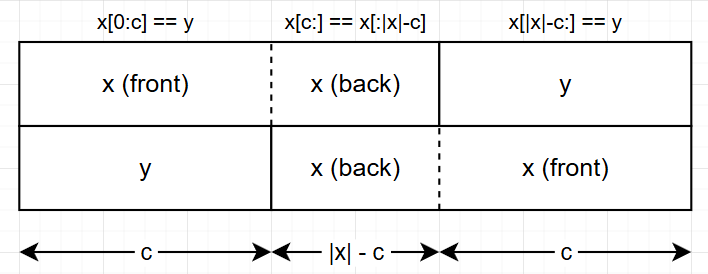
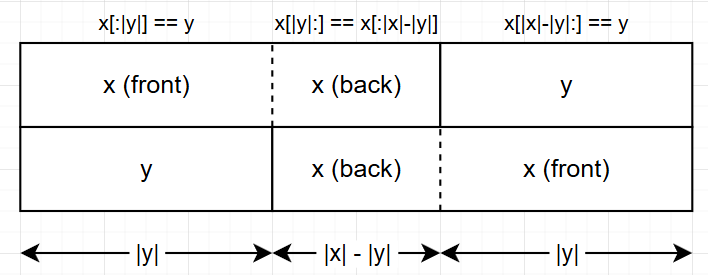
Improved ALDS-6

diff --git a/docs/posts/alds/alds6.md b/docs/posts/alds/alds6.md
@@ -49,10 +49,9 @@ s = ["abc", "abcd", "abcabc"]
 
 ![base_case](/assets/posts/alds/concat_problem/base_case.png)
 
-!!! caption
-
-    $x_0 = y_0, x_1 = y_1, \cdots$ 여야 하므로,
-    $x$와 $y$의 길이가 같을 때 $x+y = y+x$일 조건은 $x = y$일 조건과 동치입니다.
+이 그림에서 $x_i$와 $y_i$는 각각 $x$와 $y$의 $i$번째 인덱스에 있는 글자입니다. (0-based)
+$x_0 = y_0$ , $x_1 = y_1$ , $\cdots$ 여야 하므로,
+$x$와 $y$의 길이가 같을 때 $x+y = y+x$일 조건은 $x = y$일 조건과 동치입니다.
 
 ---
 
@@ -62,10 +61,12 @@ s = ["abc", "abcd", "abcabc"]
 
 ![length_multiple_case](/assets/posts/alds/concat_problem/length_multiple_case.png)
 
-이 그림에서 $x_0, x_1, \ldots x_{n-1}$은 단일 글자가 아니고, $x$의 길이를 $y$의 길이의 $n$배라고 했을 때, $x$를 $y$의 길이 단위로 총 $n$개의 조각을 만든 것을 의미합니다.
-$x+y = y+x$이기 때문에 $x_{0} = x_{n-1} = y$가 되고, 이를 통해 $x_1 = x_0$, $x_2 = x_1$ 등을 유도할 수 있습니다.
+이 그림에서 $x_0, x_1, \ldots x_{n-1}$은 단일 글자가 아니고, $x$의 길이를 $y$의 길이의 $n$배라고 했을 때, $x$를 $y$의 길이 단위로 총 $n$개의 substring 조각을 만든 것을 의미합니다.
+$x+y = y+x$이기 때문에 $x_{0} = x_{n-1} = y$가 되고,
+이를 통해 $x_1 = x_0$ , $x_2 = x_1$ 등을 유도할 수 있습니다.
 
-직관적으로 말해, $x$의 길이가 $y$의 길이의 정수배일때, $x+y = y+x$가 되기 위해서는 $x = y + y + \cdots + y$ ($n$개의 $y$의 합)이 되어야 합니다.
+직관적으로 말해, $x$의 길이가 $y$의 길이의 정수배일때,
+$x+y = y+x$가 되기 위해서는 $x = y + y + \cdots + y$ ($n$개의 $y$의 합)이 되어야 합니다.
 
 ---
 
@@ -76,17 +77,29 @@ $x+y = y+x$이기 때문에 $x_{0} = x_{n-1} = y$가 되고, 이를 통해 $x_1 
 
 ![general_case_expr](/assets/posts/alds/concat_problem/general_case_expr.png)
 
-여기서 알 수 있는 사실은, $x_{0\ldots |y|} = x_{|x| - |y| \ldots |x|}$ 이면서 동시에 $x_{c \ldots |x|} = x_{0 \ldots |x| - |y|}$라는 것입니다. (End exclusive입니다.)
+여기서 알 수 있는 사실은, $x_{0\ldots |y|} = x_{|x| - |y| \ldots |x|}$ 이면서 동시에 $x_{|y| \ldots |x|} = x_{0 \ldots |x| - |y|}$라는 것입니다. (End exclusive입니다.)
 이제 다음 그림을 봅시다.
 
 ![general_case_digged](/assets/posts/alds/concat_problem/general_case_digged.png)
 
 이게 뭘 의미하냐면, $x + y = y + x$ 일 경우, $x_{front} + x_{back} = x_{back} + x_{front}$가 성립한다는 것입니다.
-($y = x_{front}$, $x = x_{front} + x_{back}$)
+($y = x_{front}$ , $x = x_{front} + x_{back}$)
+이 명제의 역도 성립할까요?
 
-역도 성립할까요? $x + y = x_{front} + x_{back} + x_{front}$이고,
-$y + x = x_{front} + (x_{front} + x_{back}) = x_{front} + (x_{back} + x_{front})$ 이므로 성립합니다.
-따라서 둘은 동치입니다.
+$$
+x + y = x_{front} + x_{back} + x_{front}
+$$
+
+이고, 동시에
+
+$$
+\begin{align*}
+y + x &= x_{front} + (x_{front} + x_{back}) \\
+&= x_{front} + (x_{back} + x_{front})
+\end{align*}
+$$
+
+이므로 역도 성립합니다. 따라서 둘은 동치입니다.
 
 그래서 우리는 $x_{front} + x_{back} = x_{back} + x_{front}$ 인지만 보면 됩니다.
 그리고 우리는 여기서 유클리드 호제법의 아이디어를 접근할 것입니다.
@@ -105,9 +118,8 @@ $$
 \begin{align*}
 gcd(12, 7) &= gcd(12-7, 7) &= gcd(5, 7) \\
 &= gcd(5, 7-5) &= gcd(5, 2) \\
-&= gcd(5, 5-2) &= gcd(5, 3) \\
-&= gcd(5-3, 3) &= gcd(2, 3) \\
-&= gcd(2, 3-2) &= gcd(2, 1)
+&= gcd(5-2, 2) &= gcd(3, 2) \\
+&= gcd(3-2, 2) &= gcd(1, 2) \\
 &= 1
 \end{align*}
 $$
@@ -115,7 +127,9 @@ $$
 이런 식으로 $12$와 $7$의 최대공약수가 $1$임을 알 수 있습니다.
 이제 이 알고리즘을 염두에 두고 위 그림을 다시 쳐다보면.. 뭔가 느껴지실 겁니다.
 
-*"아! 이거 재귀적으로 들어갈 수 있구나."*
+!!! quote
+
+    *"아! 이거 재귀적으로 들어갈 수 있구나."*
 
 그렇습니다.
 이제 우리는 일반적인 모든 경우를 풀 수 있습니다.
@@ -124,22 +138,36 @@ $$
 
 ## The final phase
 
-위에서 $x + y = y + x \iff x_{front} + x_{back} = x_{back} + x_{front}$ 라는 것을 구했습니다.
-그리고 이제 이것을 다음과 같은 느낌으로 표현할 수 있습니다.
+저희는 위에서 다음과 같은 수식을 유도했습니다.
+
+$$
+\begin{align*}
+x + y &= y + x \\
+{\Updownarrow} \\
+x_{front} + x_{back} &= x_{back} + x_{front}
+\end{align*}
+$$
+
+그리고 이제 이 수식을 다음과 같은 느낌으로 표현할 수 있습니다.
 
 어떤 문자열 $x + y = s$에 대해, $f(s, |x|, |y|)$를 주어진 문제의 정답이라고 표현해봅시다.
 이 값은 true 또는 false이며, $s_{0 \ldots |x|}$와 $s_{|x| \ldots |x|+|y|}$가 서로 교환되는지 유무를 뜻합니다.
 
 $$
-f(s, |x|, |y|) = f(s, |x| - |y|, |y|) = \cdots = f(s, n \times gcd(x, y), gcd(x, y))
+\begin{align*}
+g &= gcd(|x|, |y|) \\ \\
+f(s, |x|, |y|) &= f(s, |x| - |y|, |y|) \\
+&= \cdots \\
+&= f(s, ng, g)
+\end{align*}
 $$
 
 이것이 의미하는 바는 $x+y = y+x$ 이기 위해서는, $x$와 $y$가 각각 어떤 공통 문자열의 정수배 반복이어야 한다는 것입니다.
 
 이걸 $2$개 문자열이 아니라 $n$개 문자열에 대해 확장하는 것도 동일한 원리에 의해 가능합니다.
 
-그래서 원래 문제를 풀기 위해서는, 먼저 $g = gcd(s_1, s_2, \ldots, s_n)$을 구한 뒤, 각 문자열이 첫 $g$개 글자에 해당하는 문자열의 반복인지를 확인하면 됩니다.
-그래서 이 문제는 시간복잡도 $O(|s_1| + |s_2| + \cdots + |s_n|)$에 풀 수 있습니다.
+그래서 원래 문제를 풀기 위해서는, 먼저 $g = gcd(|s_1|, |s_2|, \ldots, |s_n|)$을 구한 뒤, 각 문자열이 첫 $g$개 글자에 해당하는 문자열의 반복인지를 확인하면 됩니다.
+그래서 이 문제는 시간복잡도 $O(|s_1| + |s_2| + \ldots + |s_n|)$에 풀 수 있습니다.
 
 ---
 
